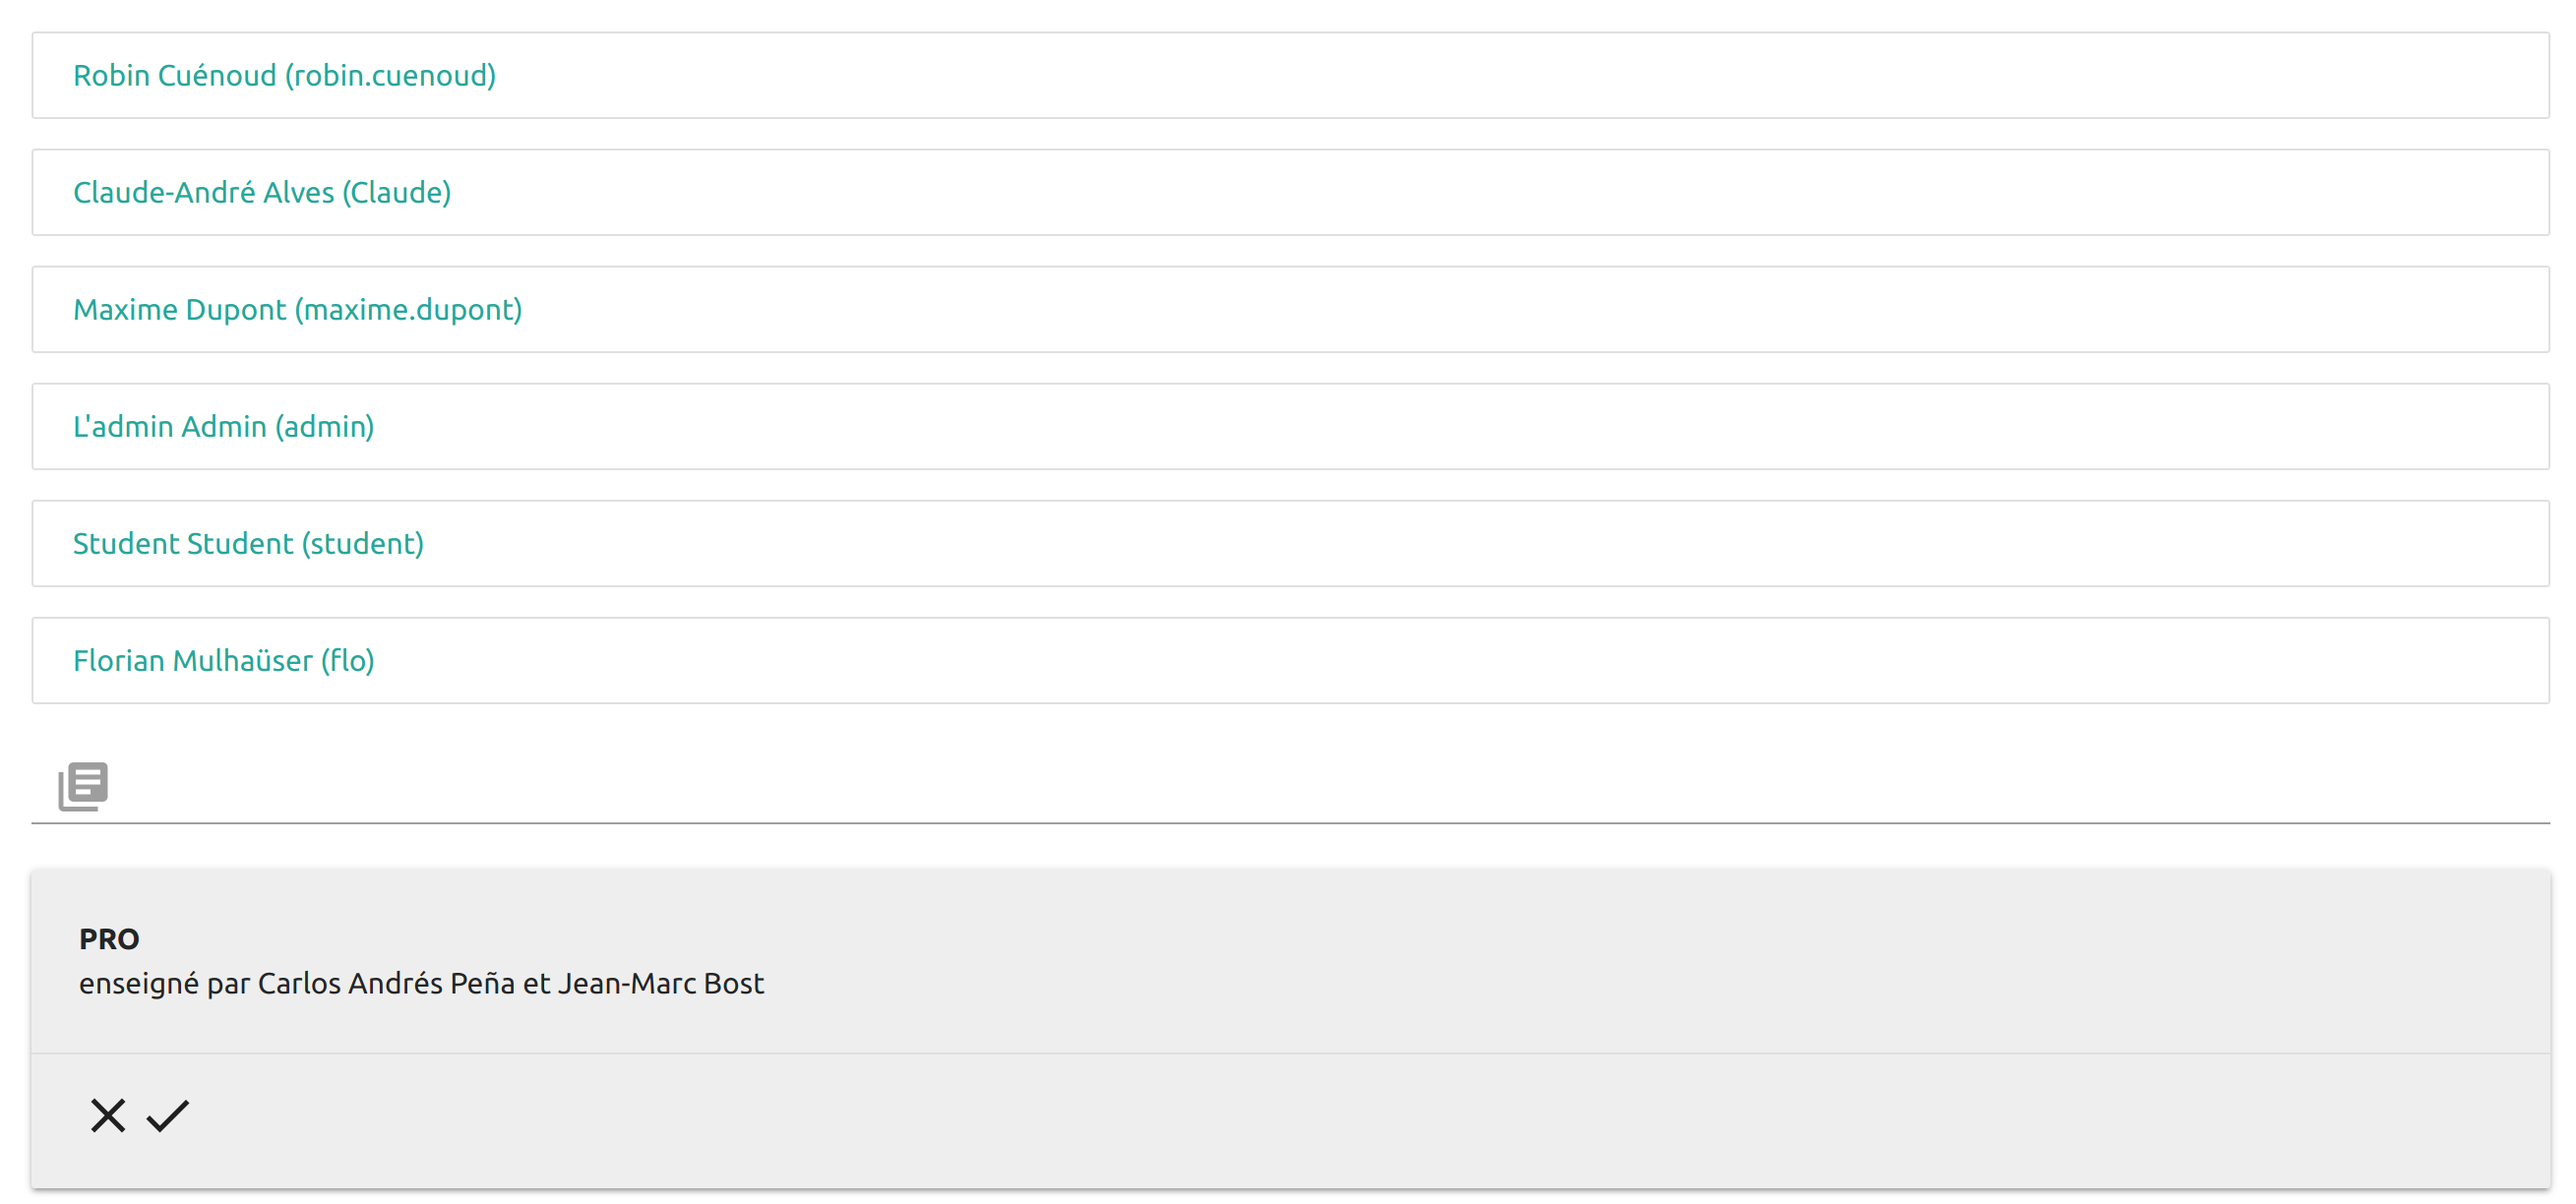
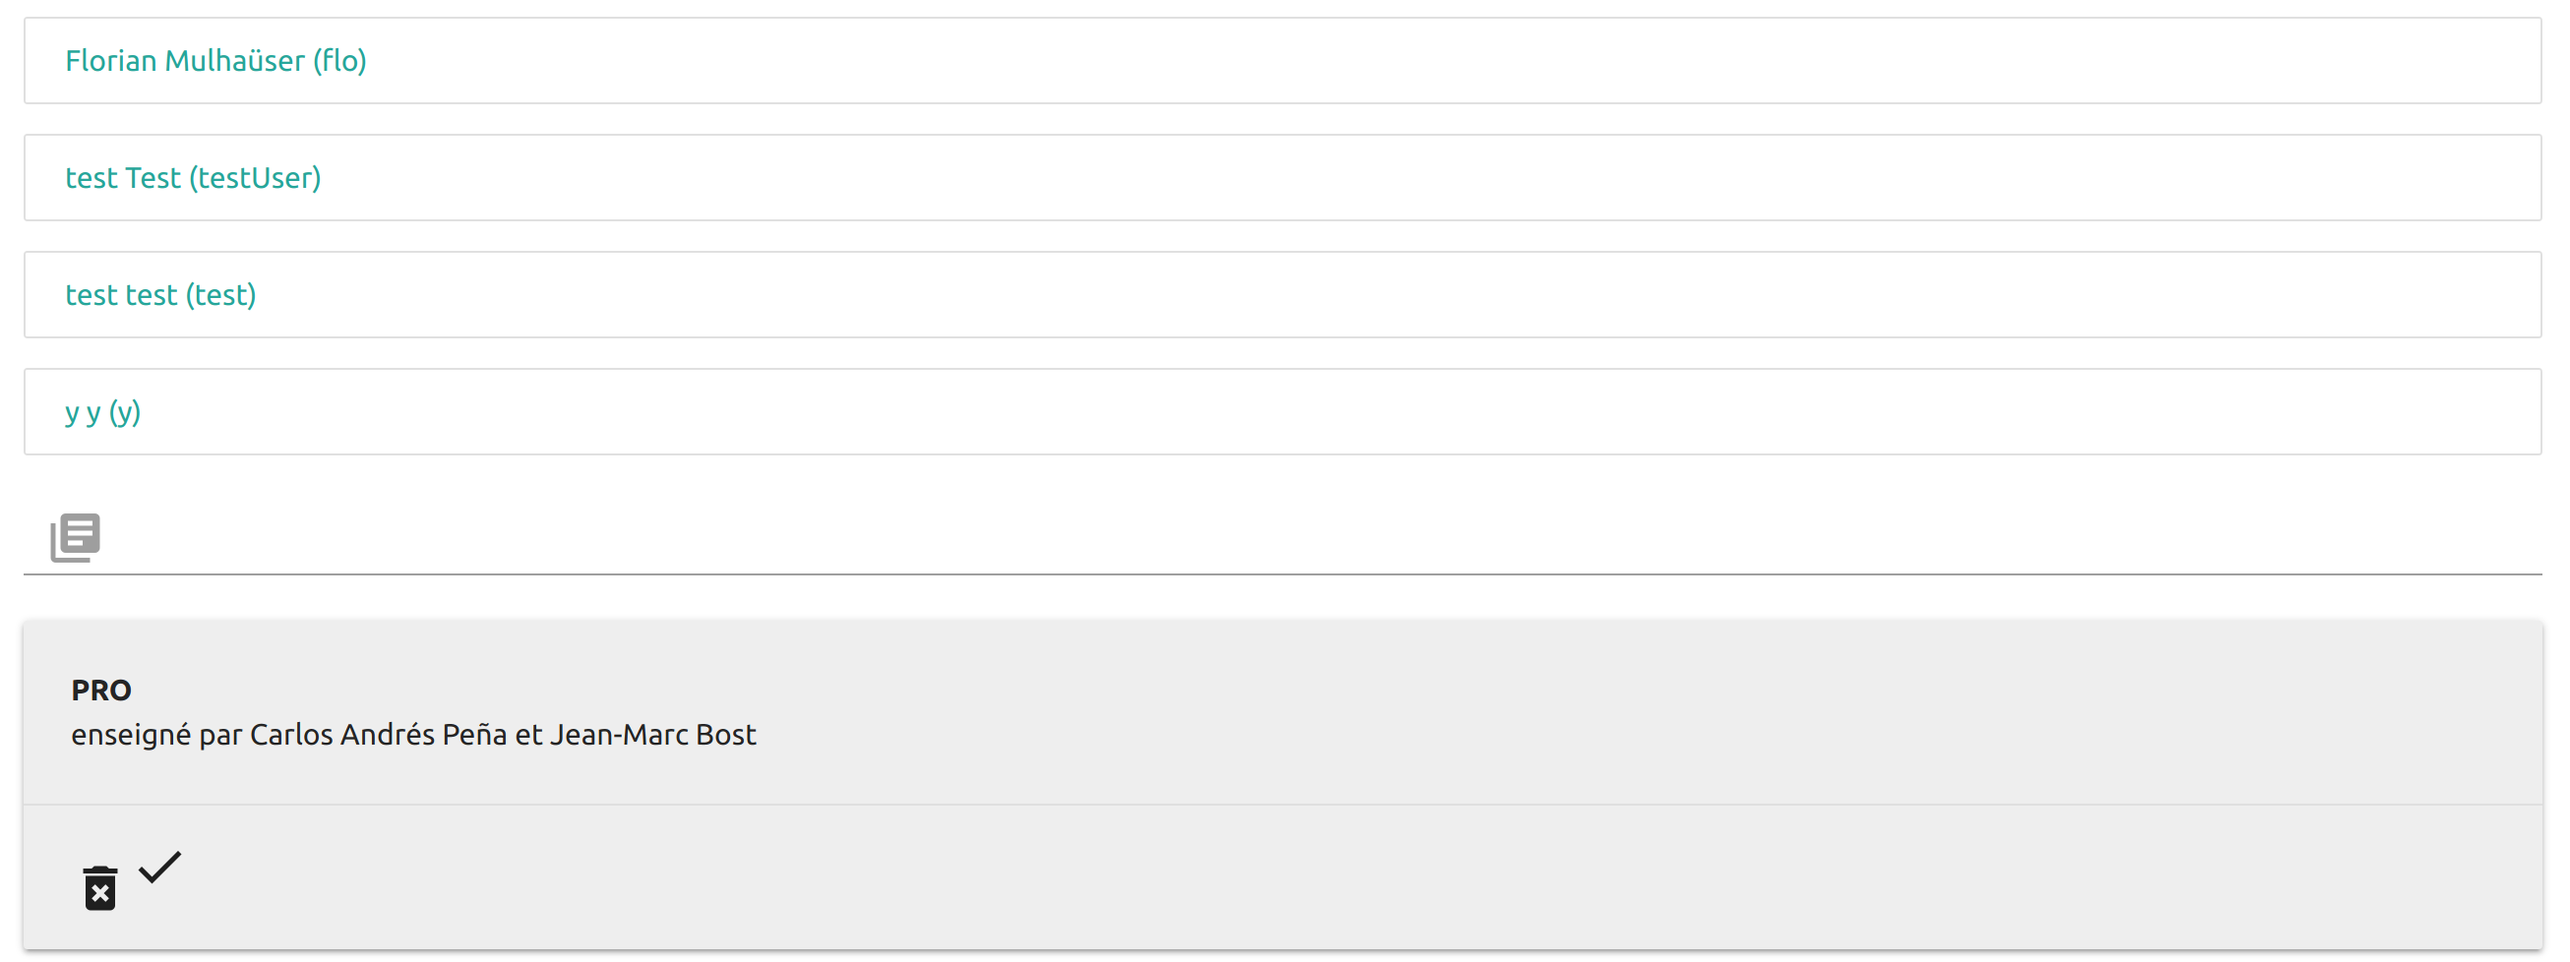
changement version finale userguide

diff --git a/rapports/manuel_utilisateur.md b/rapports/manuel_utilisateur.md
@@ -27,11 +27,17 @@ On peut écrire un message de type chat ou bien un message de type forum. Lors d
 
 #### Page d'un cours avec des messages dans le chat et le forum
 
-Un message de type chat peut être transféré, par une personne ayant droit, dans le forum à l'aide de la flêche verte qui est attachée à celui-ci. Les messages du forum peuvent être upvote/downvote à l'aide des flêches ^/v par tous les utilisateurs. La suppression des messages du forum peut être faite avec la croix en bas à gauche du poste.
+Les messages du forum peuvent être upvote/downvote à l'aide des flêches ^/v par tous les utilisateurs.
 
 ![PageCoursAvecMessageChatForum](ImagesRapport/PageCoursAvecMessageChatForum.png)
 
 ### Utilisateur admin, professeur ou assistant
+
+#### Page d'un cours
+
+On peut voir que les admins peuvent intervenir sur les messages en les effaçants ou en les promotant dans le forum à l'aide des boutons "poubelle" ou bien "flêche verte".
+
+![PageCoursAdmin](ImagesRapport/PageCoursAdmin.png)
 
 #### Page de gestion de cours
 
